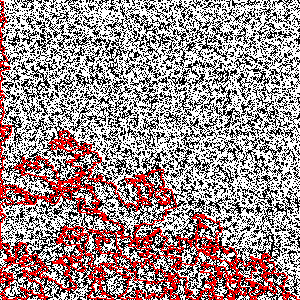
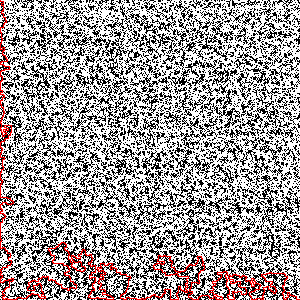
parannettu DFS:ää

diff --git a/Tiralabra/src/main/java/com/hiilimonoksidi/tiralabra/pathfinding/DepthFirstSearch.java b/Tiralabra/src/main/java/com/hiilimonoksidi/tiralabra/pathfinding/DepthFirstSearch.java
@@ -18,6 +18,11 @@ public class DepthFirstSearch extends PathfindingAlgorithm {
      * Käsittelyssä olevat solmut.
      */
     private Stack<Node> open;
+    
+    /**
+     * Joukko, sisältää samat solmut kuin open. Nopeuttaa sisältyvyystarkistusta.
+     */
+    private HashSet<Node> openSet;
 
     /**
      * Käsitellyt solmut.
@@ -27,18 +32,22 @@ public class DepthFirstSearch extends PathfindingAlgorithm {
     @Override
     protected void init() {
         open = new Stack<>();
+        openSet = new HashSet<>();
         closed = new HashSet<>();
 
         open.push(graph.get(start));
+        openSet.add(graph.get(start));
     }
 
     @Override
     public boolean searchStep() {
         Node current = open.pop();
-        closed.add(current);
-
-        processNeighbors(current);
-
+        
+        if (!closed.contains(current)) {
+            closed.add(current);
+            processNeighbors(current);
+        }
+        
         return finishStep(current);
     }
 
@@ -53,9 +62,10 @@ public class DepthFirstSearch extends PathfindingAlgorithm {
                 continue;
             }
 
-            if (!closed.contains(neighbor)) {
+            if (!closed.contains(neighbor) && !openSet.contains(neighbor)) {
                 neighbor.setParent(current);
                 open.push(neighbor);
+                openSet.add(neighbor);
             }
         }
     }
